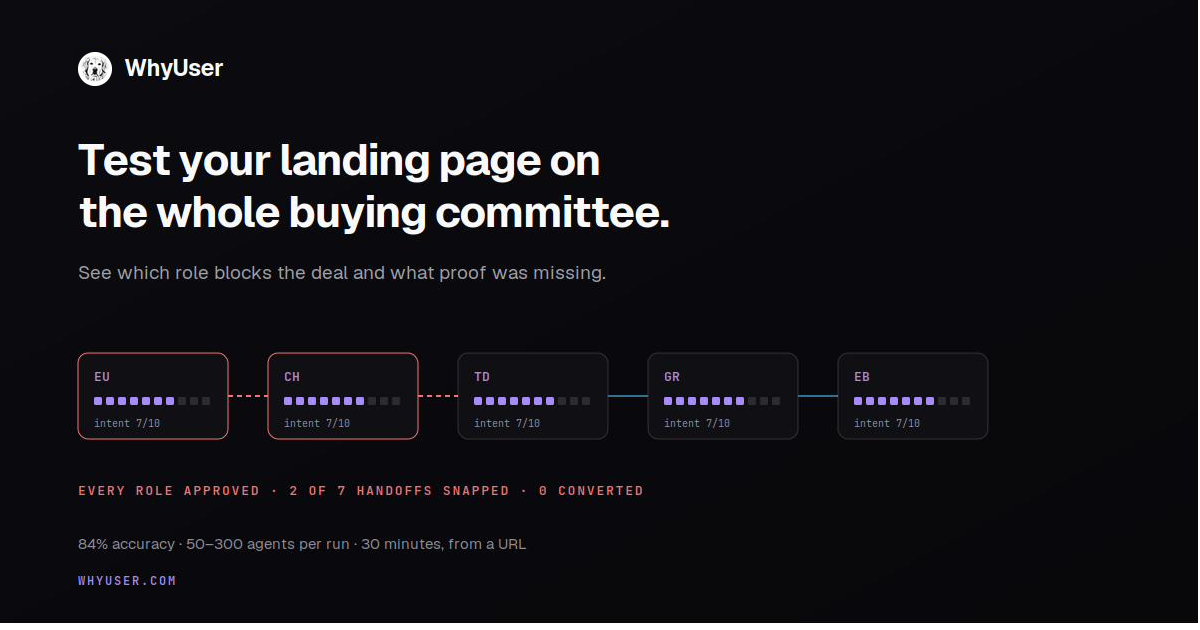
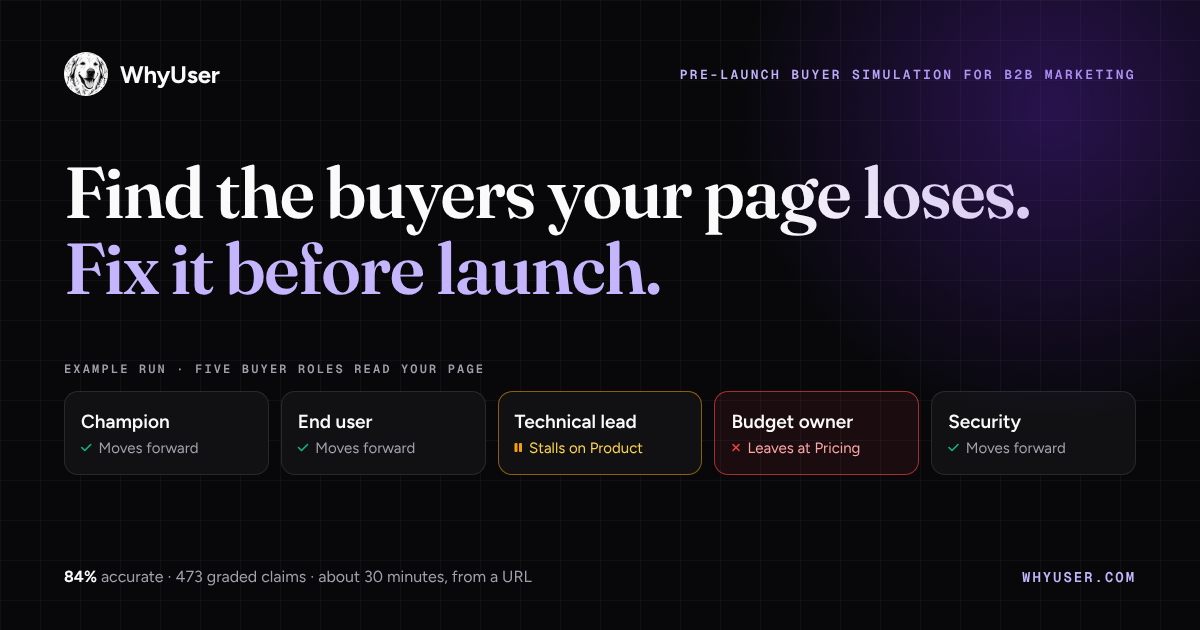
Updated preview image

diff --git a/index.html b/index.html
@@ -36,15 +36,15 @@
     <meta property="og:description" content="Meet your buying committee before your budget does. Test your page, ad or email on AI buyer personas built from your buyers&#39; own words. Trusted by ngrok and Vectara.">
     <meta property="og:url" content="https://whyuser.com/">
     <meta property="og:locale" content="en_US">
-    <meta property="og:image" content="https://whyuser.com/og-image.png">
+    <meta property="og:image" content="https://whyuser.com/og-image.png?v=2">
     <meta property="og:image:width" content="1200">
     <meta property="og:image:height" content="630">
-    <meta property="og:image:alt" content="WhyUser committee flow: champion and technical lead cannot pass the case to the economic buyer; security recommends.">
+    <meta property="og:image:alt" content="WhyUser example run: five buyer roles read a page. Champion, end user and security move forward; the technical lead stalls on Product and the budget owner leaves at Pricing.">
     <meta name="twitter:card" content="summary_large_image">
     <meta name="twitter:title" content="WhyUser | Pre-launch Buyer Simulation for B2B Marketing">
     <meta name="twitter:description" content="Meet your buying committee before your budget does. Test your page, ad or email on AI buyer personas built from your buyers&#39; own words. Trusted by ngrok and Vectara.">
-    <meta name="twitter:image" content="https://whyuser.com/og-image.png">
-    <meta name="twitter:image:alt" content="WhyUser committee flow: champion and technical lead cannot pass the case to the economic buyer; security recommends.">
+    <meta name="twitter:image" content="https://whyuser.com/og-image.png?v=2">
+    <meta name="twitter:image:alt" content="WhyUser example run: five buyer roles read a page. Champion, end user and security move forward; the technical lead stalls on Product and the budget owner leaves at Pricing.">
 
     <meta property="article:published_time" content="2025-09-01T00:00:00+00:00">
     <meta property="article:modified_time" content="2026-11-07T00:00:00+00:00">
@@ -3454,6 +3454,8 @@ body { background-image: none; }
 #how .v3-get-row{padding:1.25rem 0}
 #how .v3-get-item>b,#how .v3-get-item .gv-txt>b{margin-top:0}
 #how .v3-get-items{gap:1rem 2.25rem}
+/* Each product leads with the question it answers. */
+#how .v3-get-item .t{color:var(--ink);font-weight:500}
 
 /* ── STORY · follow one launch ── */
 #story{scroll-margin-top:4.5rem}
@@ -4187,10 +4189,10 @@ body { background-image: none; }
                     <div class="v3-get-k"><b>01</b>Know your buyer</div>
                     <div class="v3-get-items c2">
                         <a class="v3-get-item" href="buyer-personas.html#buyer-context">
-                            <b>Buyer Context</b><span class="t">Before and after they engage</span><span>Real buyer quotes, dated. See what&rsquo;s getting louder.</span>
+                            <b>Buyer Context</b><span class="t">What do buyers say about us and our rivals, week by week?</span><span>Real buyer quotes, dated. See what&rsquo;s getting louder.</span>
                         </a>
                         <a class="v3-get-item" href="buyer-questions.html">
-                            <b>Buyer Questions</b><span class="t">What they ask, and if you answer</span><span>Ranked by who asks. Find gaps before sales does.</span>
+                            <b>Buyer Questions</b><span class="t">What do buyers ask, and do our pages answer it?</span><span>Ranked by who asks. Find gaps before sales does.</span>
                         </a>
                     </div>
                 </div>
@@ -4198,16 +4200,16 @@ body { background-image: none; }
                     <div class="v3-get-k"><b>02</b>Rehearse before you spend</div>
                     <div class="v3-get-items c4">
                         <a class="v3-get-item" href="committee-simulation.html">
-                            <b>Pages &amp; Content</b><span>See who stalls on your page, and who blocks whom.</span><span class="o">Verdict + ranked fixes</span>
+                            <b>Pages &amp; Content</b><span class="t">Will this page move each buyer forward? Where does it break?</span><span>See who stalls on your page, and who blocks whom.</span><span class="o">Verdict + ranked fixes</span>
                         </a>
                         <a class="v3-get-item" href="ad-campaign-simulation.html">
-                            <b>Ad Funnels</b><span>LinkedIn and Google ads, from feed to landing page.</span><span class="o">Who clicks, who bounces</span>
+                            <b>Ad Funnels</b><span class="t">How do buyers respond to the ad and the page it lands on?</span><span>LinkedIn and Google ads, from feed to landing page.</span><span class="o">Who clicks, who bounces</span>
                         </a>
                         <a class="v3-get-item" href="email-campaign-simulation.html">
-                            <b>Email Sequences</b><span>Up to five emails, read in order.</span><span class="o">Who replies, who books</span>
+                            <b>Email Sequences</b><span class="t">Will this sequence get replies, and from whom?</span><span>Up to five emails, read in order.</span><span class="o">Who replies, who books</span>
                         </a>
                         <a class="v3-get-item" href="audience-discovery.html">
-                            <b>Audience Discovery</b><span>The titles your content pulls, ready to target.</span><span class="o">Who to add, who to cut</span>
+                            <b>Audience Discovery</b><span class="t">Which titles does this page reach, and who would push it forward?</span><span>Ready to build in LinkedIn Campaign Manager.</span><span class="o">Who to add, who to cut</span>
                         </a>
                     </div>
                 </div>
@@ -4215,7 +4217,7 @@ body { background-image: none; }
                     <div class="v3-get-k"><b>03</b>Ship the fix</div>
                     <div class="v3-get-items">
                         <a class="v3-get-item wide" href="workflows.html">
-                            <div class="gv-txt"><b>Workflows &amp; MCP</b><span class="t">In Claude, Cursor or Codex</span><span>Ask in plain words. Get finished work back, every fix checked.</span><span class="o">Revise Content &middot; Revise Emails &middot; Persona Messaging &middot; Patterns &middot; Compare</span></div>
+                            <div class="gv-txt"><b>Workflows &amp; MCP</b><span class="t">Can it make the fixes for us?</span><span>In Claude, Cursor or Codex. Ask in plain words and get finished work back, every fix checked.</span><span class="o">Revise Content &middot; Revise Emails &middot; Persona Messaging &middot; Patterns &middot; Compare</span></div>
                         </a>
                     </div>
                 </div>
